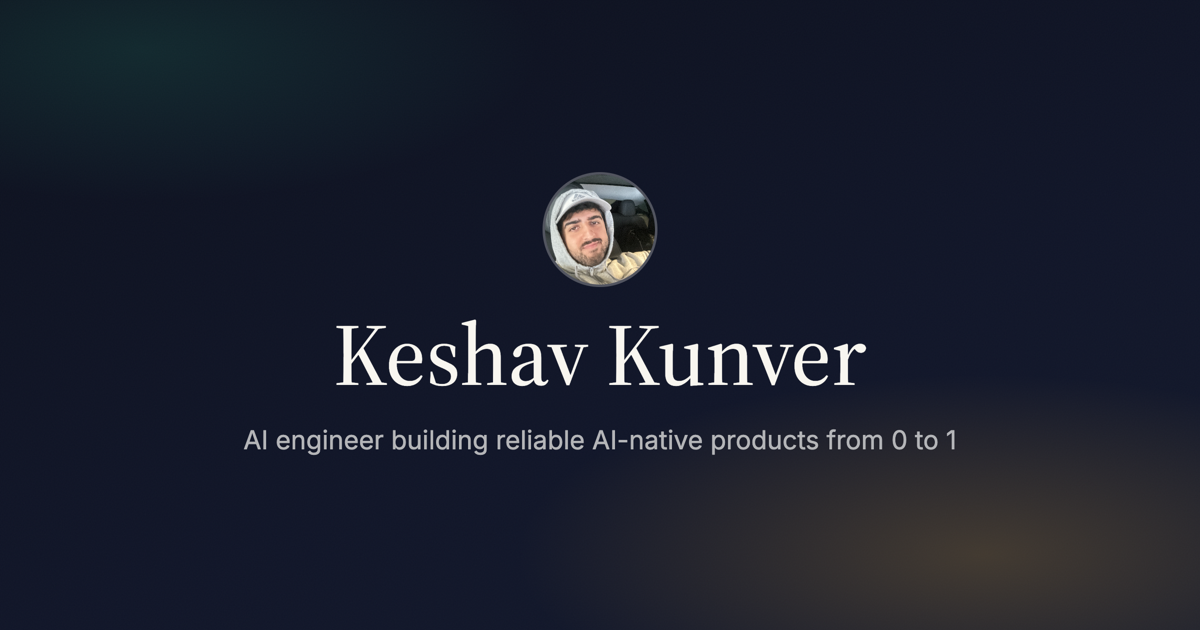
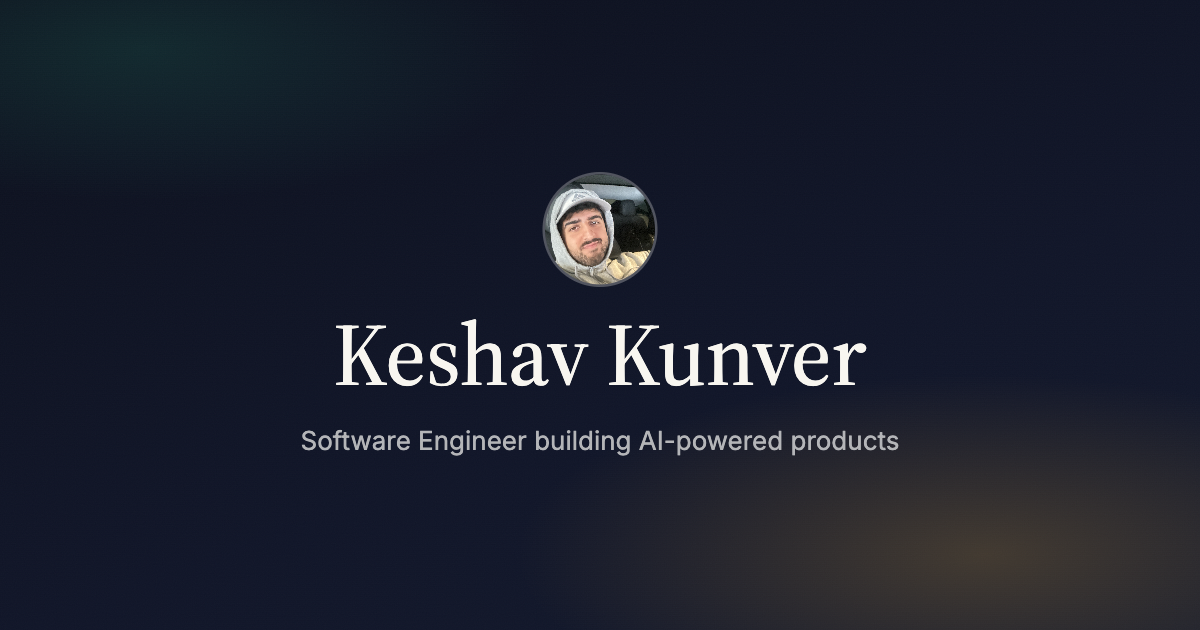
Reposition hero and metadata: Software Engineer building AI-powered products
Replace AI Engineer positioning in hero copy, page metadata, OG/Twitter tags, JSON-LD, and per-page OG image alts; regenerate og.png with the new role line.

diff --git a/src/app/layout.jsx b/src/app/layout.jsx
@@ -25,9 +25,9 @@ const sourceSerif = Source_Serif_4({
 })
 
 export const metadata = {
-  title: 'Keshav Kunver | AI Engineer',
-  description: 'I ship LLM products end to end: tool-calling agents, real-time voice AI, and the eval suites that keep them working in production.',
-  keywords: ['Keshav Kunver', 'AI Engineer', 'LLM', 'AI Agents', 'RAG', 'LLM Evaluation', 'React Native'],
+  title: 'Keshav Kunver | Software Engineer',
+  description: 'Software Engineer in Los Angeles building full-stack and AI-powered products with TypeScript, React, Next.js, Python, and modern AI tooling.',
+  keywords: ['Keshav Kunver', 'Software Engineer', 'Full-Stack Engineer', 'AI Products', 'TypeScript', 'React', 'Next.js', 'Python'],
   authors: [{ name: 'Keshav Kunver' }],
   creator: 'Keshav Kunver',
   publisher: 'Keshav Kunver',
@@ -39,15 +39,15 @@ export const metadata = {
     type: 'website',
     locale: 'en_US',
     url: 'https://www.kunver.com',
-    title: 'Keshav Kunver | AI Engineer',
-    description: 'I ship LLM products end to end: tool-calling agents, real-time voice AI, and the eval suites that keep them working in production.',
+    title: 'Keshav Kunver | Software Engineer',
+    description: 'Software Engineer in Los Angeles building full-stack and AI-powered products with TypeScript, React, Next.js, Python, and modern AI tooling.',
     siteName: 'Keshav Kunver',
-    images: [{ url: '/og.png', width: 1200, height: 630, alt: 'Keshav Kunver, AI Engineer' }],
+    images: [{ url: '/og.png', width: 1200, height: 630, alt: 'Keshav Kunver, Software Engineer' }],
   },
   twitter: {
     card: 'summary_large_image',
-    title: 'Keshav Kunver | AI Engineer',
-    description: 'I ship LLM products end to end: tool-calling agents, real-time voice AI, and the eval suites that keep them working in production.',
+    title: 'Keshav Kunver | Software Engineer',
+    description: 'Software Engineer in Los Angeles building full-stack and AI-powered products with TypeScript, React, Next.js, Python, and modern AI tooling.',
     images: ['/og.png'],
   },
   robots: {
@@ -80,7 +80,7 @@ export default function RootLayout({ children }) {
               "@type": "Person",
               "name": "Keshav Kunver",
               "url": "https://www.kunver.com",
-              "jobTitle": "AI Engineer",
+              "jobTitle": "Software Engineer",
               "worksFor": {
                 "@type": "Organization",
                 "name": "Independent"
@@ -98,14 +98,16 @@ export default function RootLayout({ children }) {
                 }
               ],
               "knowsAbout": [
-                "LLM Agents",
-                "RAG",
-                "LLM Evaluation",
+                "TypeScript",
+                "React",
+                "Next.js",
+                "Python",
+                "Full-Stack Development",
                 "AI Product Development",
-                "React Native",
-                "Backend Engineering"
+                "API Design",
+                "Quality Engineering"
               ],
-              "description": "AI Engineer shipping LLM products end to end: tool-calling agents, real-time voice AI, and the eval suites that keep them working in production.",
+              "description": "Software Engineer in Los Angeles building full-stack and AI-powered products with TypeScript, React, Next.js, Python, and modern AI tooling.",
               "sameAs": [
                 "https://www.linkedin.com/in/keshav-kunver",
                 "https://github.com/keshavkunver"

diff --git a/src/components/pages/Home.jsx b/src/components/pages/Home.jsx
@@ -130,10 +130,24 @@ const Home = () => {
                 </h1>
 
                 <motion.p
-                    className="text-xl sm:text-2xl text-text-secondary max-w-xl mb-7 leading-snug"
+                    className="text-xl sm:text-2xl text-text-secondary max-w-xl mb-5 leading-snug"
                     variants={itemVariants}
                 >
                     {personalInfo.title}
+                </motion.p>
+
+                <motion.p
+                    className="text-[15px] sm:text-base text-text-secondary max-w-2xl mb-3 leading-relaxed"
+                    variants={itemVariants}
+                >
+                    {personalInfo.tagline}
+                </motion.p>
+
+                <motion.p
+                    className="text-[13px] sm:text-sm text-text-secondary/80 max-w-xl mb-8 leading-relaxed"
+                    variants={itemVariants}
+                >
+                    {personalInfo.experience}
                 </motion.p>
 
                 <motion.div
@@ -141,7 +155,7 @@ const Home = () => {
                     variants={itemVariants}
                 >
                     <span className="w-2 h-2 rounded-full bg-emerald-500 animate-pulse" />
-                    <span>Open to remote and hybrid roles, based in Los Angeles</span>
+                    <span>{personalInfo.location} · {personalInfo.availability}</span>
                 </motion.div>
 
                 <motion.div className="flex flex-wrap justify-center gap-4" variants={itemVariants}>

diff --git a/src/config/content.js b/src/config/content.js
@@ -8,11 +8,12 @@ import hoopintelImg from '../assets/images/projects/hoop-intel/hoopintel-screens
 
 export const personalInfo = {
   name: "Keshav Kunver",
-  title: "AI Engineer building reliable AI-native products from 0 to 1.",
-  tagline: "I ship LLM products end to end: tool-calling agents, real-time voice AI, and the eval suites that keep them working in production.",
+  title: "Software Engineer building AI-powered products.",
+  tagline: "I build full-stack software from idea to production, with a focus on AI-powered experiences, reliable systems, and products people actually use.",
+  experience: "6+ years across software engineering and quality engineering, with hands-on experience building with TypeScript, React, Next.js, Python, APIs, databases, and modern AI tooling.",
   location: "Los Angeles",
   email: "keshav@kunver.com",
-  availability: "Open to remote and hybrid roles",
+  availability: "Open to hybrid & remote",
 };
 
 export const offTheClock = {

diff --git a/src/app/blog/[slug]/opengraph-image.jsx b/src/app/blog/[slug]/opengraph-image.jsx
@@ -5,12 +5,12 @@ import { writing } from '../../../config/content';
 
 export const size = { width: 1200, height: 630 };
 export const contentType = 'image/png';
-export const alt = 'Keshav Kunver, AI Engineer';
+export const alt = 'Keshav Kunver, Software Engineer';
 
 export default async function OgImage({ params }) {
   const { slug } = await params;
   const article = writing.find((a) => a.url === `/blog/${slug}`);
-  const title = article?.title ?? 'Keshav Kunver | AI Engineer';
+  const title = article?.title ?? 'Keshav Kunver | Software Engineer';
   const metaParts = [article?.tag, article?.readingTime].filter(Boolean).join(' · ');
   const fontData = await readFile(
     join(process.cwd(), 'src/assets/fonts/InstrumentSans-Bold.ttf')

diff --git a/src/app/build/layout.jsx b/src/app/build/layout.jsx
@@ -10,7 +10,7 @@ export const metadata = {
     url: 'https://www.kunver.com/build',
     type: 'website',
     siteName: 'Keshav Kunver',
-    images: [{ url: '/og.png', width: 1200, height: 630, alt: 'Keshav Kunver, AI Engineer' }],
+    images: [{ url: '/og.png', width: 1200, height: 630, alt: 'Keshav Kunver, Software Engineer' }],
   },
   twitter: {
     card: 'summary_large_image',

diff --git a/src/app/now/page.jsx b/src/app/now/page.jsx
@@ -12,7 +12,7 @@ export const metadata = {
     url: 'https://www.kunver.com/now',
     type: 'website',
     siteName: 'Keshav Kunver',
-    images: [{ url: '/og.png', width: 1200, height: 630, alt: 'Keshav Kunver, AI Engineer' }],
+    images: [{ url: '/og.png', width: 1200, height: 630, alt: 'Keshav Kunver, Software Engineer' }],
   },
   twitter: {
     card: 'summary_large_image',
